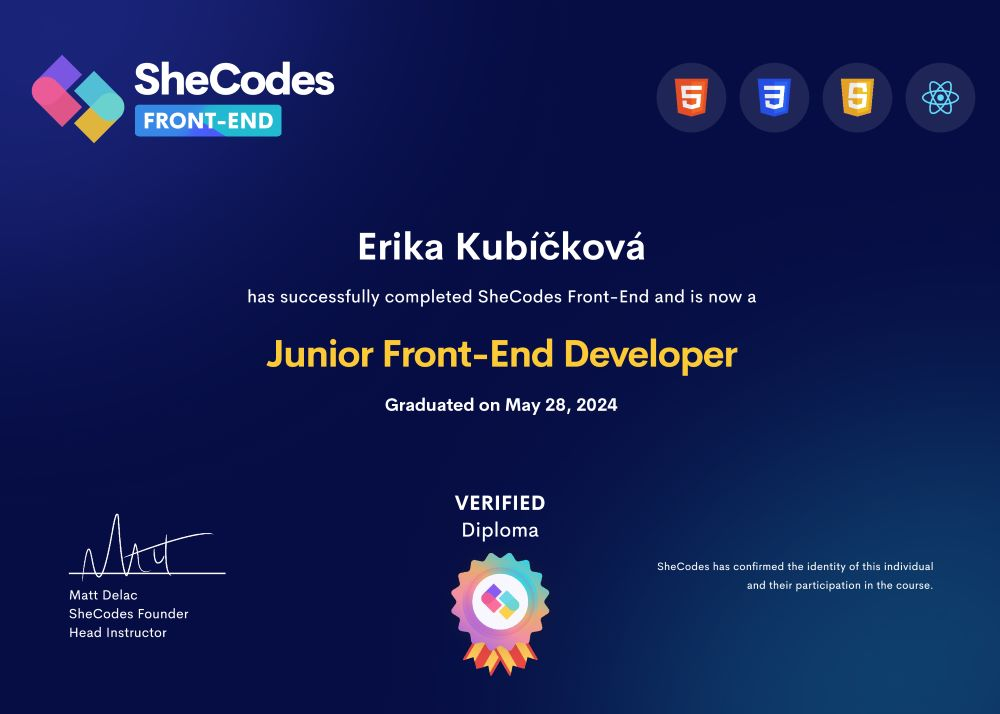
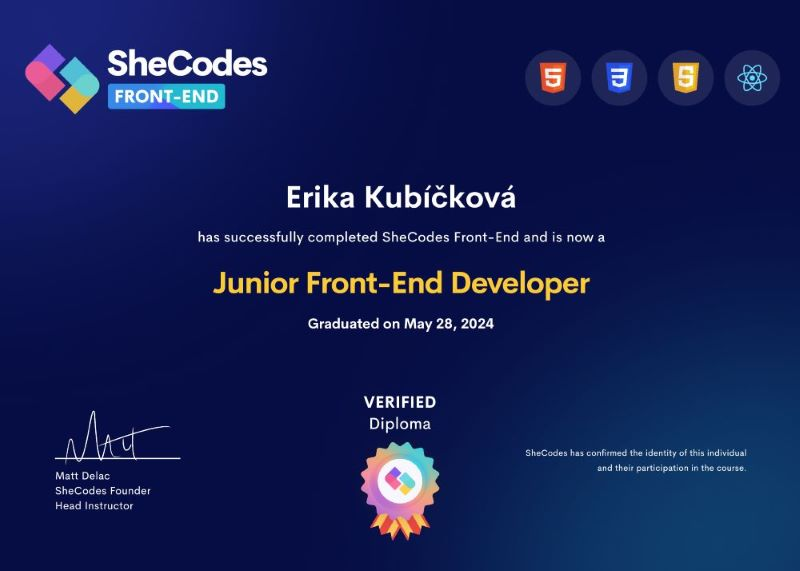
Added cannoical link to the certificate page
Resized images

diff --git a/certificates.html b/certificates.html
@@ -23,11 +23,11 @@
       integrity="sha384-QWTKZyjpPEjISv5WaRU9OFeRpok6YctnYmDr5pNlyT2bRjXh0JMhjY6hW+ALEwIH"
       crossorigin="anonymous"
     />
+        <link rel="canonical" href="https://www.erikakubickova.com/certificates" />
     <link
       rel="icon"
       type="image/png"
-      sizes="16x16"
-      href="/media/favicon-16x16.png"
+      href="/media/favicon.png"
     />
     <link rel="stylesheet" href="style.css" />
     <title>

diff --git a/index.html b/index.html
@@ -27,7 +27,6 @@
     <link
       rel="icon"
       type="image/png"
-      sizes="48x48"
       href="/media/favicon.png"
     />
 
